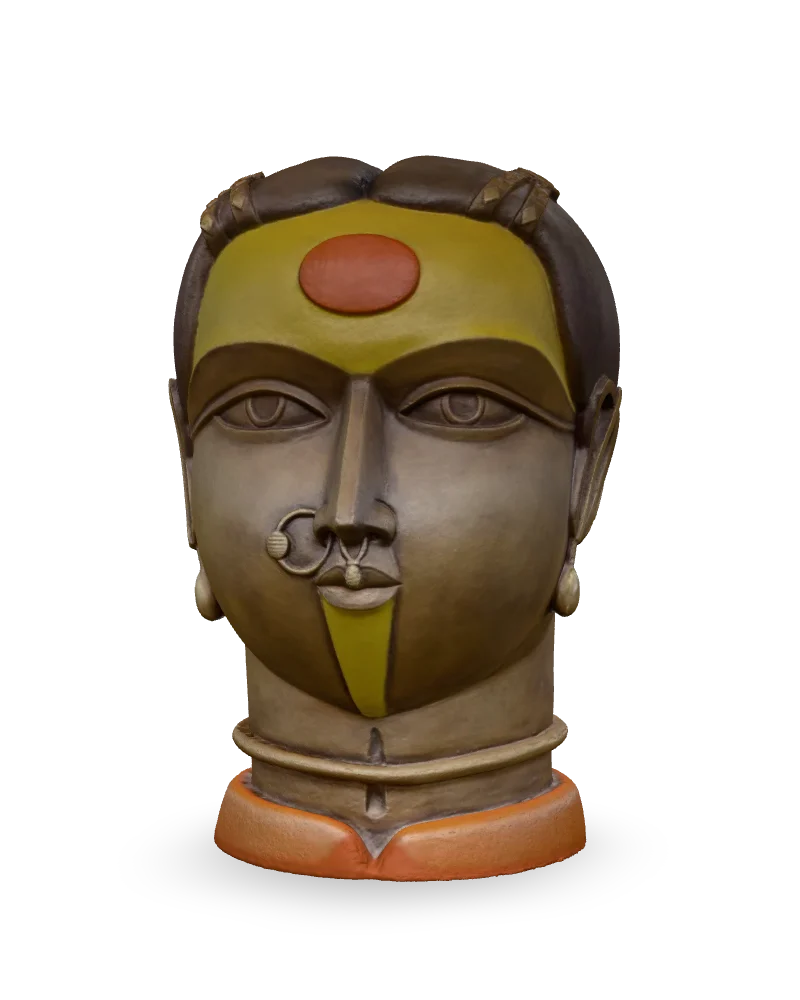
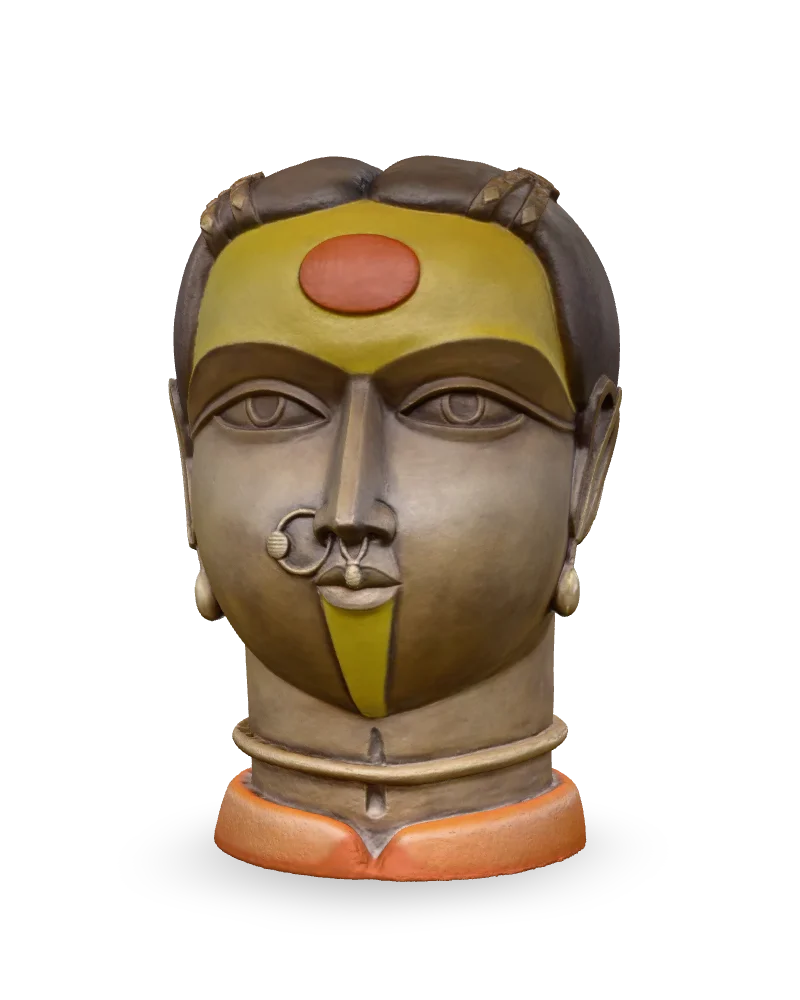
Side Braid and Nose Ring heads: brighter
light × 1.5 and reflections 0.9, at the user's request (same step as Man with Mridangam). Thumbnails remade, ?v= bumped.

Changed region(s): [[0.2188, 0.155, 0.7812, 0.899], [0.1875, 0.372, 0.2188, 0.403]]

diff --git a/lib/sculptures.ts b/lib/sculptures.ts
@@ -635,9 +635,9 @@ export const sculptures: Sculpture[] = [
     title: "Female Head with Side Braid and Green Collar",
     description: "",
     artistSlug: "thota-vaikuntam",
-    thumbnail: "/thumbnails/thota-female-head-with-side-braid.webp?v=7",
+    thumbnail: "/thumbnails/thota-female-head-with-side-braid.webp?v=8",
     modelUrl: "/sculptures/thota-female-head-05.glb",
-    look: { metalness: 0.26, roughness: 1.53, reflections: 0.6, light: 0.96, sideLights: 0.5, specular: 1 },
+    look: { metalness: 0.26, roughness: 1.53, reflections: 0.9, light: 1.44, sideLights: 0.5, specular: 1 },
     material: "Bronze",
     year: "2025",
     dimensions: "25 × 17 × 24 inches",
@@ -771,9 +771,9 @@ export const sculptures: Sculpture[] = [
     title: "Female Head with Nose Ring and Red Collar",
     description: "",
     artistSlug: "thota-vaikuntam",
-    thumbnail: "/thumbnails/thota-female-head-with-nose-ring.webp?v=4",
+    thumbnail: "/thumbnails/thota-female-head-with-nose-ring.webp?v=5",
     modelUrl: "/sculptures/thota-female-head-07.glb",
-    look: { metalness: 0.32, roughness: 1.49, reflections: 0.6, light: 0.72 },
+    look: { metalness: 0.32, roughness: 1.49, reflections: 0.9, light: 1.08 },
     facing: 260,
     material: "Bronze",
     year: "2025",

diff --git a/docs/lighting-progress.md b/docs/lighting-progress.md
@@ -35,7 +35,7 @@ Applied to every work in commit `ee3008d`, except: the Lady (washes out grey; ke
 
 ### Tuned after the house look (2026-11-18)
 The user found seven works still off on their artwork pages. Picked from variant renders against the reference head:
-- Side Braid, Nose Ring: a milky grey veil (their paint is about twice as light as the reference, so the shared light bleached it in the tone mapping). `light` × 0.8, and `specular: 1` where the scan had sheen 0.
+- Side Braid, Nose Ring: a milky grey veil (their paint is about twice as light as the reference, so the shared light bleached it in the tone mapping). `light` × 0.8, and `specular: 1` where the scan had sheen 0. The user then asked for them brighter: `light` × 1.5 and `reflections: 0.9` (Side Braid light 1.44, Nose Ring 1.08). Raising reflections with the light keeps the paint from going milky.
 - Head with Bared Teeth, Blue Saree, Trumpeter: flat, dark faces. `light` × 1.25 and `reflections` × 1.5, plus `specular: 1` (Blue Saree, Trumpeter).
 - Man with Mridangam: tried the same, but the user preferred its earlier setting, `{ metalness: 0.2, roughness: 1.6, reflections: 0.6, light: 1.3, sideLights: 0.5 }`, so it is back on that (not the house surface), then asked for it brighter: now `light: 1.6, reflections: 0.9` (1.8 bleached the white dhoti).
 - Dancing Shiva: moved off the old light onto the house surface, `{ metalness: 0.15, roughness: 0.6, reflections: 1, light: 1.6, sideLights: 0.7, specular: 1 }`. Its hair is near-black in the scan's own colours.
